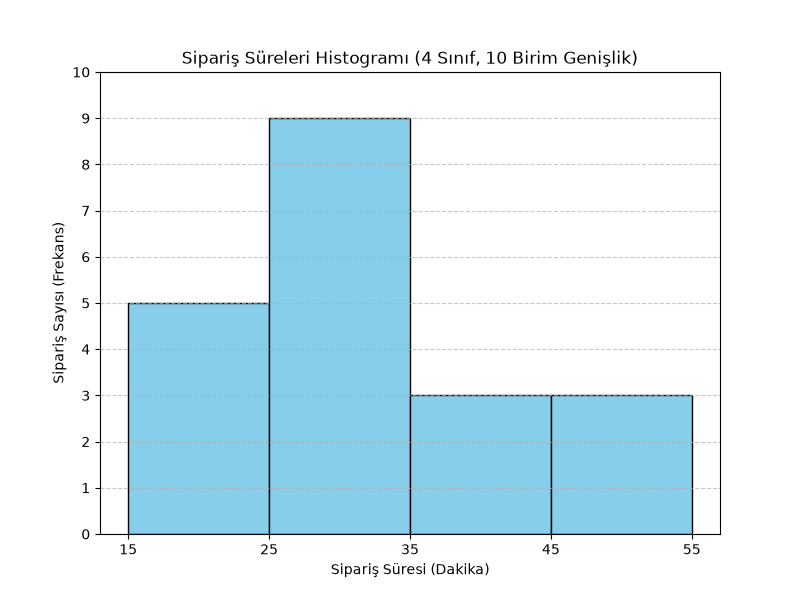
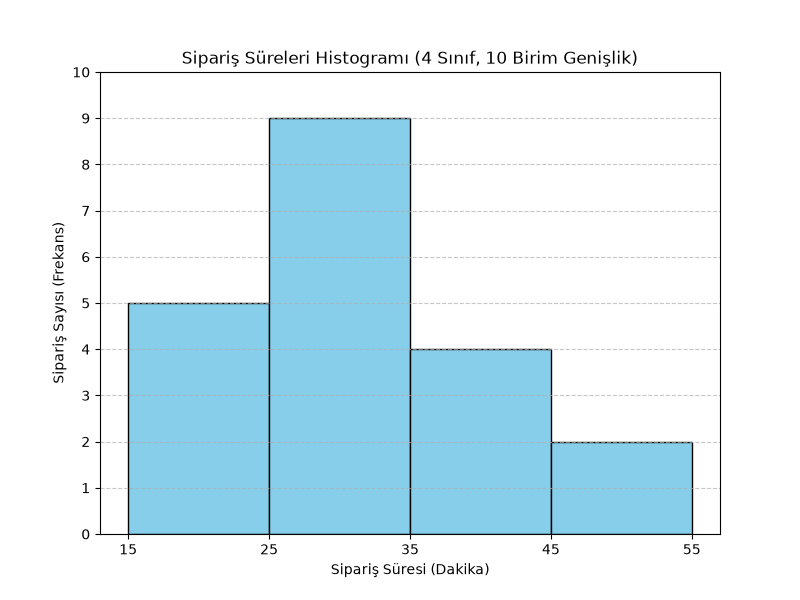
Refactor histogram to use raw data and plt.hist, fix README typo

Changed region(s): [[0.5, 0.57, 0.875, 0.75]]

diff --git a/02-understanding-data/plot_histogram.py b/02-understanding-data/plot_histogram.py
@@ -1,18 +1,20 @@
 import matplotlib.pyplot as plt
 
-# Sınıf orta noktaları (x ekseni için)
-x = [20, 30, 40, 50]
-# Frekanslar (y ekseni için)
-frequencies = [5, 9, 3, 3]
-# Sınıf sınırları
-bins = [15, 25, 35, 45, 55]
+# Teslimat sürelerini temsil eden ham veri seti (Dakika cinsinden, 20 adet)
+# Diğer dosyalardaki (boxplot) aynı veri setini kullanıyoruz ki farklı grafik türleriyle farkı görelim.
+teslimat_sureleri = [15, 18, 20, 21, 23, 25, 26, 26, 27, 28, 29, 30, 32, 34, 36, 38, 40, 42, 48, 52]
+
+# Sınıf sınırları (bins)
+sinirlar = [15, 25, 35, 45, 55]
 
 plt.figure(figsize=(8, 6))
-# Histogram çizimi (çubuk genişliği 10, kenarlar belirgin)
-plt.bar(x, frequencies, width=10, edgecolor='black', color='skyblue', align='center')
+
+# plt.hist ile ham veriden histogram çizimi
+# bins parametresi sınırları belirler, matplotlib frekansları kendisi sayar
+plt.hist(teslimat_sureleri, bins=sinirlar, edgecolor='black', color='skyblue')
 
 # Eksen ayarları
-plt.xticks(bins)
+plt.xticks(sinirlar)
 plt.yticks(range(0, 11))
 plt.xlabel('Sipariş Süresi (Dakika)')
 plt.ylabel('Sipariş Sayısı (Frekans)')
@@ -21,4 +23,4 @@ plt.grid(axis='y', linestyle='--', alpha=0.7)
 
 # Grafiği kaydet
 plt.savefig('histogram.png')
-print("Histogram başarıyla oluşturuldu ve kaydedildi.")
+print("Histogram ham veri kullanılarak başarıyla oluşturuldu ve kaydedildi.")

diff --git a/README.md b/README.md
@@ -1,3 +1,3 @@
 # Statistics with Python
 
-Bu proje, matplotlib kütüphanesi ile Python programlama dili kullanılarak gerçekleştirilen istatistiksel analizleri ve veri görselleştirme çalışmalarını içermektedir.
+Bu proje, matplotlib ve numpy kütüphaneleri ile Python programlama dili kullanılarak gerçekleştirilen istatistiksel analizleri ve veri görselleştirme çalışmalarını içermektedir.
